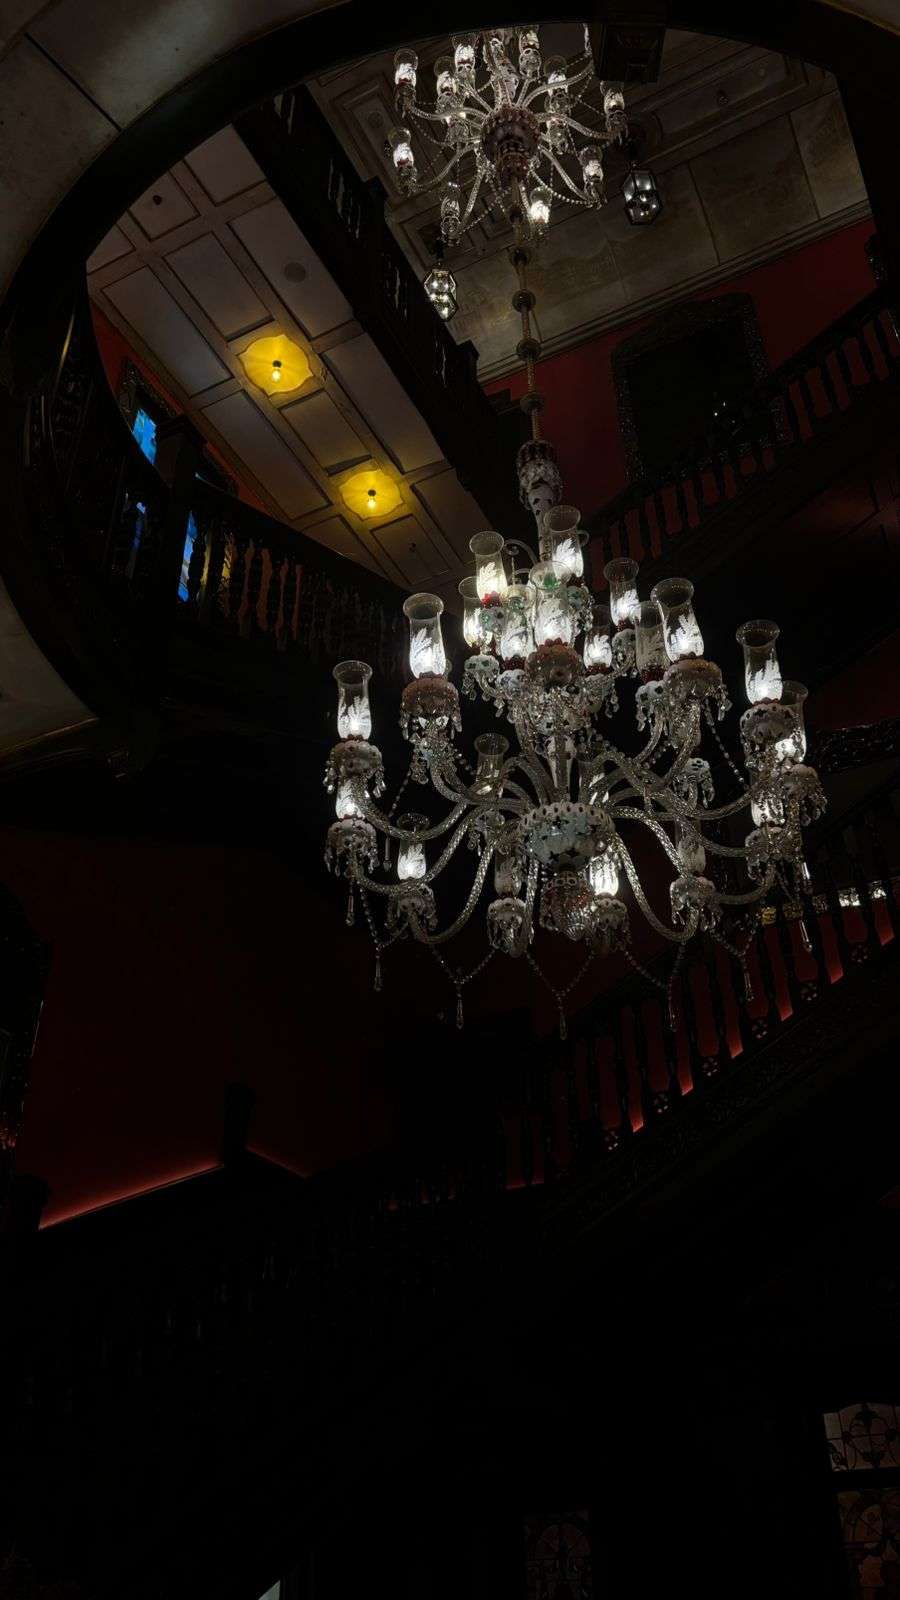
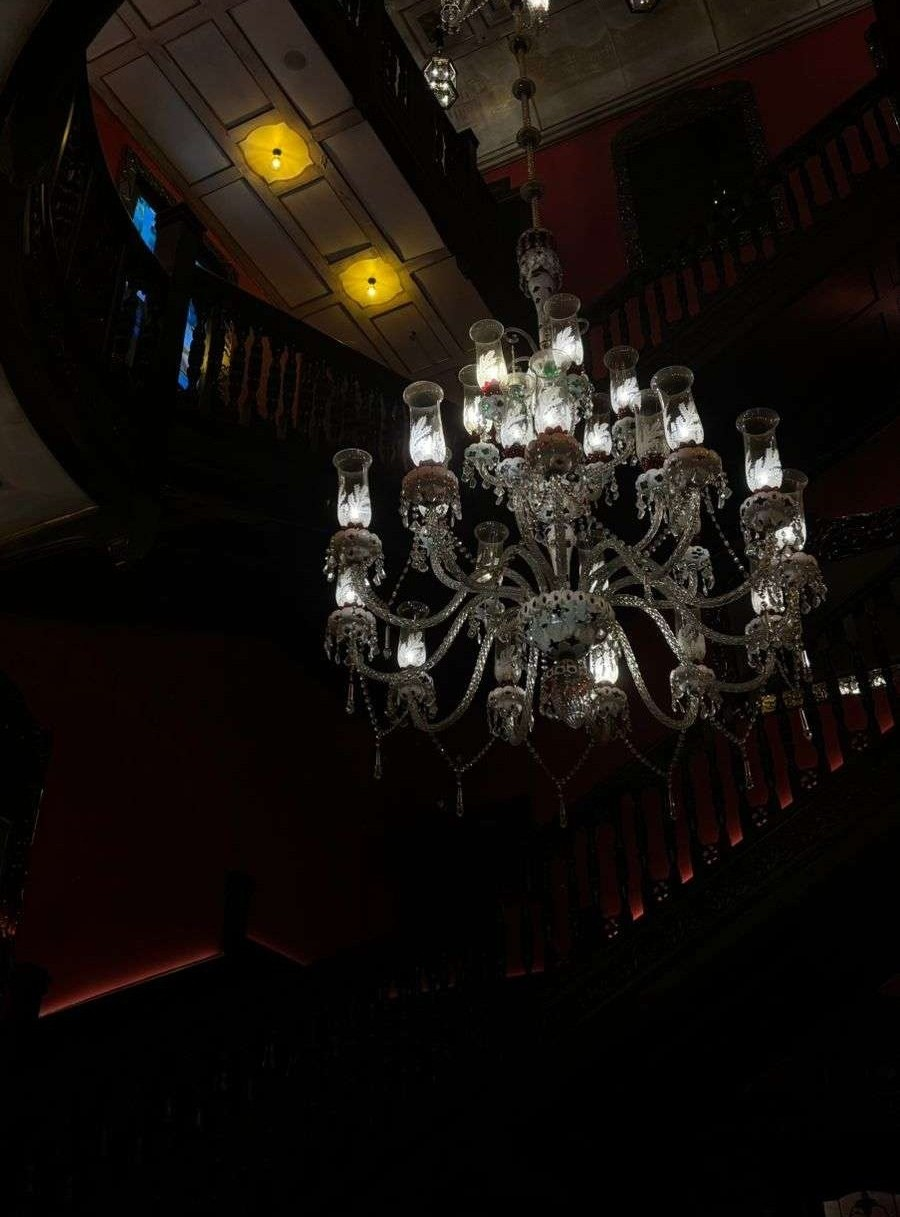
life images

diff --git a/life.html b/life.html
@@ -15,6 +15,9 @@ body {
   margin: 0 auto;
   font-family: 'Xanh Mono', monospace;
   color: #000;
+  background-color: #e5e5f7;
+  background-image: radial-gradient(#82c02a 0.5px, #e5e5f7 0.5px);
+  background-size: 10px 10px;
 }
 
 /* PAGE CENTER */
@@ -51,10 +54,6 @@ body {
   width: 90%;
   justify-self: center;
   align-self: center;
-
-  /* dither effect */
-  image-rendering: pixelated;
-  filter: sepia(40%);
   cursor: pointer;
 }
 
@@ -205,22 +204,42 @@ href="https://webneko.net">Neko</a></h1>
       <img src="images\misc\5.jpg">
     </div>
 
-    <div class="box" data-count="5" data-seed="box3">
-      <img src="images\misc\9.jpg">
-      <img src="images\misc\10.jpg">
-      <img src="images\misc\2.jpg">
-      <img src="images\misc\11.jpg">
-      <img src="images\misc\25.jpg">
+    <div class="box" data-count="3" data-seed="box3">
+      <img src="images\misc\misc5.png">
+      <img src="images\misc\misc6.png">
+      <img src="images\misc\misc7.png">
     </div>
 
     <div class="box" data-count="4" data-seed="box4">
       <img src="images\misc\22.jpg">
       <img src="images\misc\23.jpg">
       <img src="images\misc\26.jpg">
-      <img src="images\misc\4.jpg">
+      <img src="images\misc\4.png">
     </div>
 
     <div class="box" data-count="5" data-seed="box5">
+      <img src="images\misc\misc2.png">
+      <img src="images\misc\misc3.png">
+      <img src="images\misc\misc4.jfif">
+      <img src="images\misc\misc1.png">
+      <img src="images\misc\14.png">
+    </div>
+
+    <div class="box" data-count="5" data-seed="box6">
+      <div class="text">
+        <strong>archive note</strong><br><br>
+        this box contains only text.<br>
+        lorem lorem ipsum ipsum blah blah
+      </div>
+    </div>
+
+    <div class="box" data-count="3" data-seed="box7">
+      <img src="images\misc\misc9.png">
+      <img src="images\misc\12.jpg">
+      <img src="images\misc\24.jpg">
+    </div>
+
+    <div class="box" data-count="5" data-seed="box8">
       <img src="images\misc\6.jpg">
       <img src="images\misc\18.jpg">
       <img src="images\misc\7.jpg">
@@ -228,7 +247,14 @@ href="https://webneko.net">Neko</a></h1>
       <img src="images\misc\8.jpg">
     </div>
 
-
+    <div class="box" data-count="5" data-seed="box9">
+      <img src="images\misc\9.jpg">
+      <img src="images\misc\10.png">
+      <img src="images\misc\2.jpg">
+      <img src="images\misc\11.jpg">
+      <img src="images\misc\25.jpg">
+    </div>
+    
   </div>
 </div>
 

diff --git a/css/main.css b/css/main.css
@@ -7,6 +7,7 @@ body {
     background-attachment: fixed;
     background-size: cover;
     background-position: center;
+    background-color: #e5e5f7;
     margin: 0;
   font-size: 0.8rem;
   line-height: 1.4;
@@ -230,11 +231,11 @@ ul {
   margin: 0;
   padding: 1%;
   z-index: 100;
-  width: 80px;
+  width: 70px;
   height: 170px; 
   position: fixed; 
   overflow: auto; 
-  background-color: white;
+  background-color: #e5e5f7;
 }
 
 li a {
@@ -263,7 +264,7 @@ li a:hover:not(.active) {
 }
 .btn {
   font-family: "Xanh Mono", monospace;
-  border-color:antiquewhite;
+  border-color:rgb(237, 231, 255);
   outline: none;
   padding: 2px 6px;
   cursor: pointer;